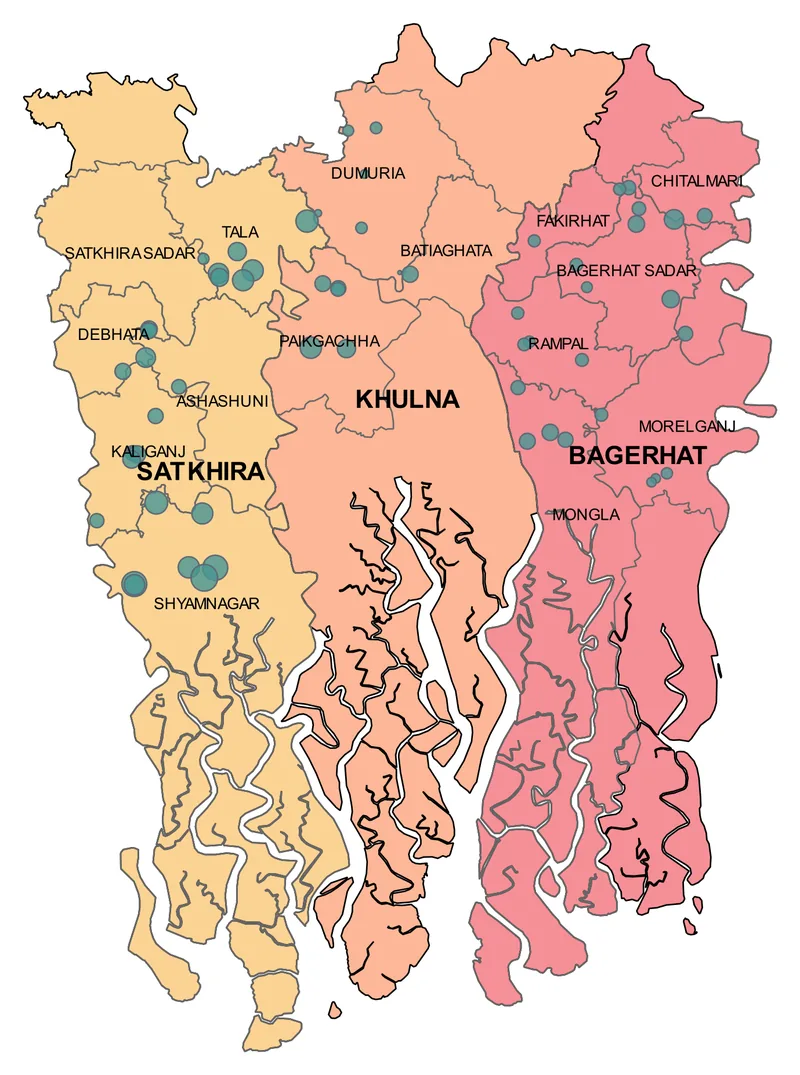
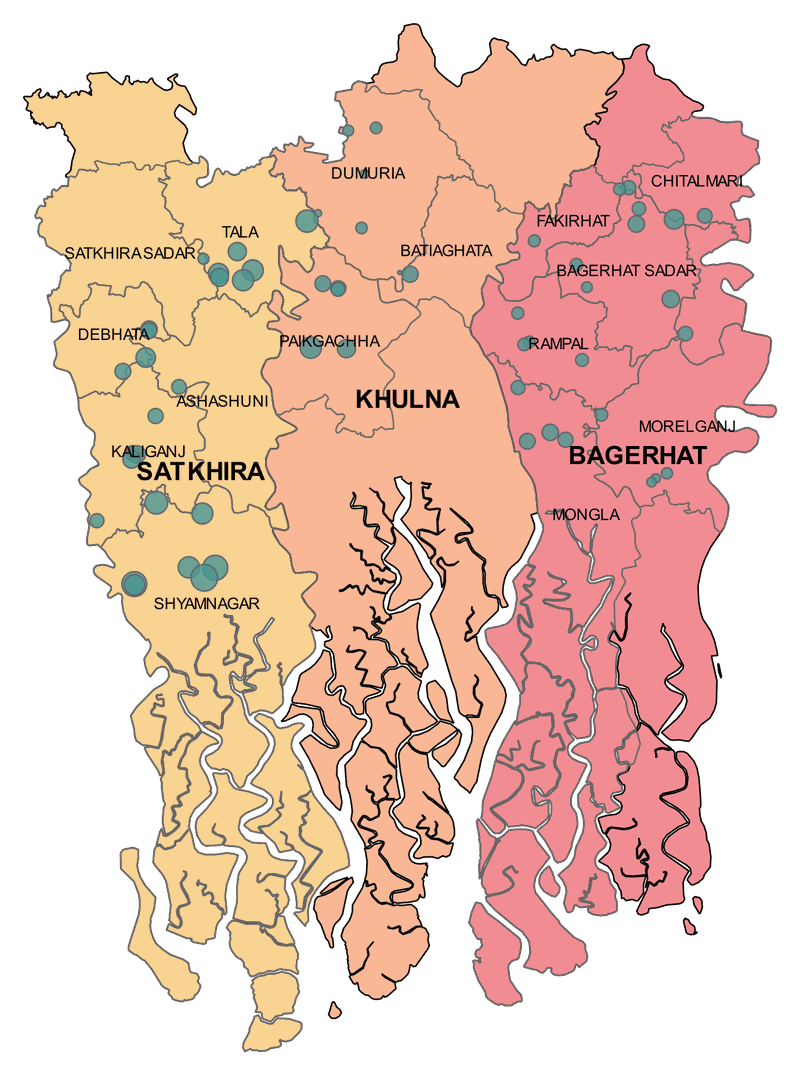
Give the shrimp cluster map a transparent background
Re-rendered Figure 2 from the report's vector drawing without its white
backing rectangles; land stays as published, the surroundings and river
channels are transparent. WebP with a PNG fallback (JPEG has no alpha).

diff --git a/index.html b/index.html
@@ -511,7 +511,7 @@
             <p class="when">Difference-in-differences evaluation, Nov 2023 – Dec 2024</p>
             <p>An evaluation of three shrimp cluster farming interventions and their effects on productivity and welfare outcomes for farmers in southern Bangladesh. I conducted the study and co-published the baseline, endline and follow-up survey datasets.</p>
             <a class="map-preview tall" href="https://hdl.handle.net/10568/172964">
-              <picture><source srcset="images/shrimp-clusters-map.webp" type="image/webp"><img src="images/shrimp-clusters-map.jpg" width="800" height="1075" loading="lazy" decoding="async" alt="Map of Satkhira, Khulna and Bagerhat districts in southern Bangladesh, with the sampled shrimp farm clusters shown as circles sized by their annual shrimp production"></picture>
+              <picture><source srcset="images/shrimp-clusters-map.webp" type="image/webp"><img src="images/shrimp-clusters-map.png" width="800" height="1075" loading="lazy" decoding="async" alt="Map of Satkhira, Khulna and Bagerhat districts in southern Bangladesh, with the sampled shrimp farm clusters shown as circles sized by their annual shrimp production"></picture>
               <span class="map-preview-caption">Read the technical report <span aria-hidden="true">&rarr;</span></span>
             </a>
             <p class="map-credit">Sampled clusters, shown as circles sized by annual bagda shrimp production. Figure 2 from Narayanan, Belton, Kabir et al. (2024), <cite>The cluster panacea?</cite>, CC BY 4.0.</p>
